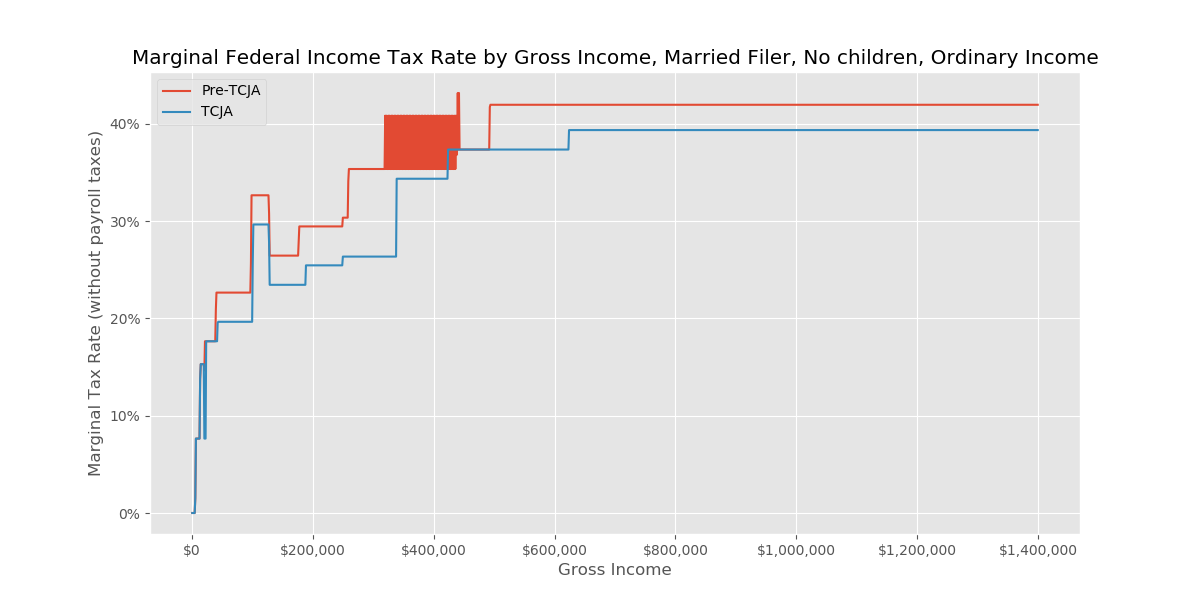
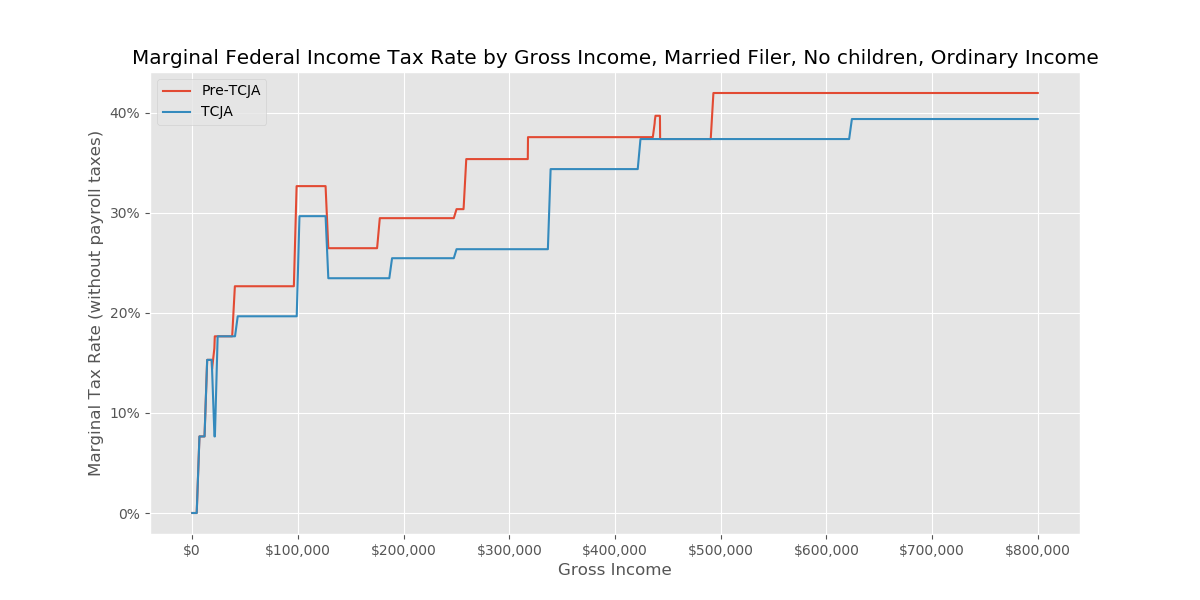
tweak marginal graphs

diff --git a/taxsim/taxsim.py b/taxsim/taxsim.py
@@ -18,7 +18,7 @@ from . import marriage_penalty
 current_datetime = datetime.now().strftime("%Y%m%dT%H%M%S")  # ISO 8601
 
 ##### Default Configuration #####
-MARG_RATE_BOUND = 1000
+MARG_RATE_BOUND = 2500
 ASSUMED_MORTGAGE_RATE = 0.04
 # Input taxpayers
 TAXPAYERS_FILE = "taxpayers.csv"
